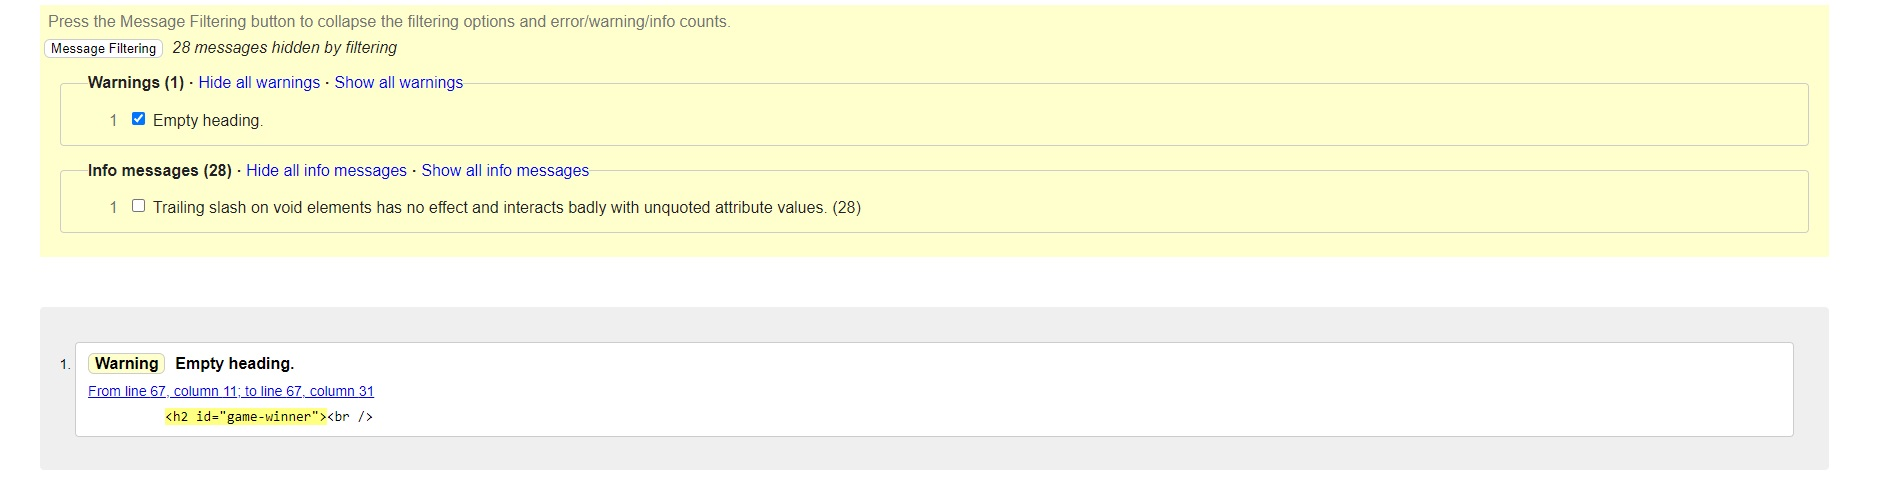
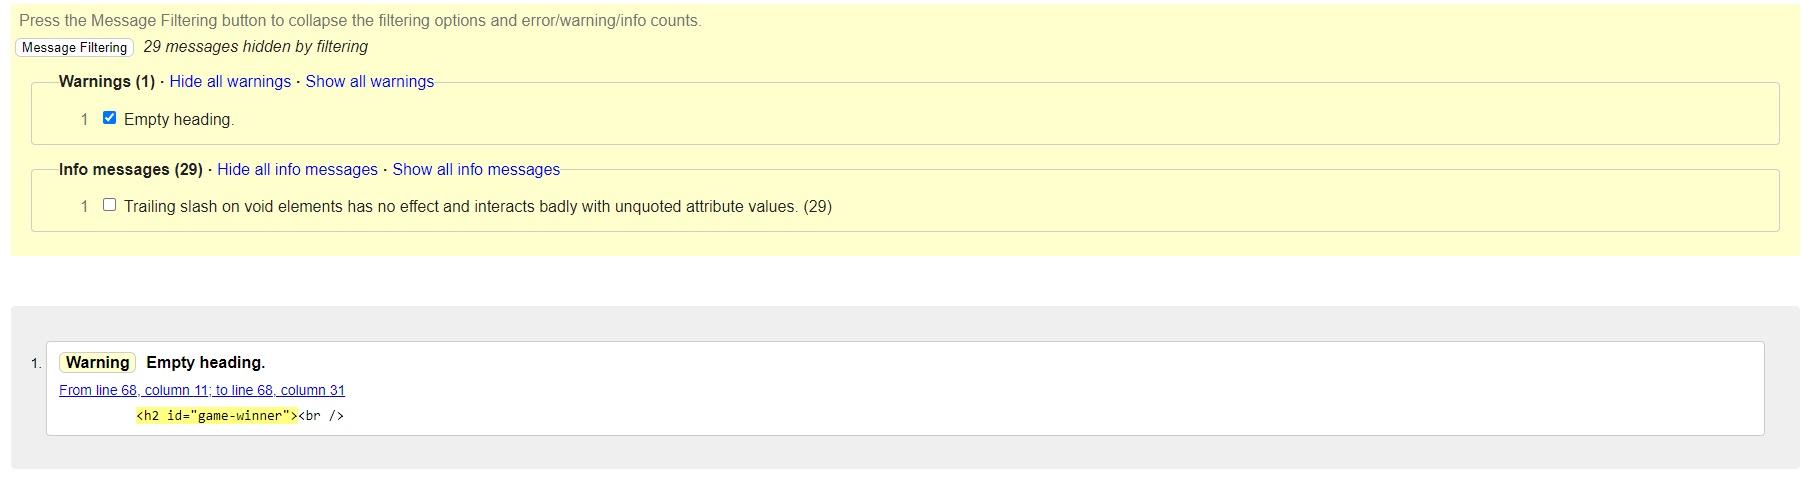
Update README and fix language

Changed region(s): [[0.0, 0.0, 0.4615, 0.5553], [0.0308, 0.7015, 0.9538, 0.9353], [0.9538, 0.0, 1.0, 0.5553]]

diff --git a/README.md b/README.md
@@ -20,12 +20,12 @@ Users of this game will learn the rules of RPSLS, and is targeted towards adults
 
 ![Header](documentation/header.jpg)
 
-- **Player Customization**
+- **Colour Customization**
 
-  - Featured right below the header. The user is allowed to customize the colour of their 'player character' from a predetermined colour set in the form of a drop-down list.
-  - The chosen colour of the user will appear in their player-box, above their name and also change the box to the chosen colour.
-  - Upon user selection of their colour, the computer will also choose its own colour, and change the colour of its box to its chosen colour.
-  - The computer will never choose the same colour as the player currently uses. This is to prevent confusion and keeping an easy visual distinction between each player.
+  - Featured right below the header. The user is allowed to customize the colour of their 'player character/box' from a predetermined colour set in the form of a drop-down list. This gives the user freedom by having more control of how they want their game to look (being able to style their user's box).
+  - The chosen colour of the user will appear both as text in their user's box above the 'player' line, and also change the box to the chosen colour. This is to improve UX: would the user for example be colour blind, they still know their box is 'Grey'.
+  - Upon user selection of their colour, the computer will also choose its own colour in similar fashion, and change the colour of its box to its chosen colour. This makes the game feel more 'alive and responsive' in that the computer also picks its colour and this adds an element of unpredictability (what colour will the user be facing?).
+  - The computer will never choose the same colour as the user currently uses. This is to prevent confusion and keeping an easy visual distinction between each player.
   - The customized colour choices are locally stored in the browser. Keeping the user's and computer's preferred colour if the page is refreshed or if the user close it and would decide to come back.
 
 ![Colour Customization](documentation/colour-customization.jpg)
@@ -33,7 +33,7 @@ Users of this game will learn the rules of RPSLS, and is targeted towards adults
 - **Game Options**
 
   - The user is presented with 5 clickable options in the game: Rock, Paper, Scissors, Lizard or Spock. Each of these clickable buttons contain a text presenting their choice and also contain a corresponding icon for better style and easier visualisation of each choice.
-  - When a button is clicked. The buttons will be locked until the computer has made its own move against the player. This makes it more user friendly to the player as it will prevent clicking two buttons or more in succession by mistake.
+  - When a button is clicked. The buttons will be locked until the computer has made its own move against the player. This makes it more user friendly to the player as it will also prevent clicking two buttons or more in rapid succession by mistake.
 
 ![Game Options](documentation/game-options.jpg)
 
@@ -43,9 +43,9 @@ Users of this game will learn the rules of RPSLS, and is targeted towards adults
   - The user's box on the left side will change image when the user clicks on one of the game buttons. It will change to an appropriate picture presenting the player's choice.
   - The computer's image will turn blank with a delay to portray a more human behaviour. Conveying a feeling that it is 'thinking about its next move'.
   - The computer's JavaScript coding will make a completely random choice between Rock, Paper, Scissors, Lizard or Spock. It will change its image to its choice and then the game will decide who the winner is of the round.
-  - When the round's winner is decided (or if it's a tie) the round will increase by 1, and if there is a winner they will be awarded 1 point more to their score.
+  - When the round's winner is decided (or if it's a tie) the round will increase by 1, and if there is a winner they will be awarded 1 point more to their score (with a maximum possible score of 5).
   - At the end of round 5, a description of the game's result will be displayed between the game buttons and game profiles: revealing the winner of the game (or if it's a tie).
-  - After round 5, the game will immediately restart if the player clicks on any game button. The game will also immediately begin through round 1, sending the player and computer straight into the game and deciding who the winner is of round 1.
+  - After round 5, the game will immediately restart if the player clicks on any game button. The game will also immediately begin through round 1, sending the player and computer straight into the game and deciding who the winner is of round 1. This is to make the game extra simple, avoiding unnecessary extra functions. It's just play the game and see the results since the user will be here to learn the rules of RPSLS so that they later can teach and play the game with others.
 
 ![Game Results Start](documentation/game-results-start.jpg)
 ![Game Results](documentation/game-results.jpg)
@@ -124,14 +124,14 @@ Users of this game will learn the rules of RPSLS, and is targeted towards adults
 
   - The presented colour names in the game are not the actual semantic colours in the game.
     - "Red" for example is actually "lightcoral" and "Yellow" is actually "lightgoldenrodyellow".
-    - **Reasons**: Better UX. These colours are lighter in nature, making the texts and images easier to read visualize. The actual names of the colours are somewhat unfriendly, so they were changed to more appropriate names when presented for the user.
+    - **Reasons**: Better UX. These colours are lighter in nature, making the texts and images with these backgrounds easier to read visualize. The actual names of the colours are somewhat unfriendly, so they were changed to more appropriate names when presented for the user.
 
   - Footer has inverted colours. Its background is black while the text is white.
     - **Reasons**: Better UX. To make the rules clearly separated from the rest of the document.
 
 - **Style**
 
-  - All 5 options that are playable in the game: all 5 are represented by both literal text and an illustration or icon.
+  - All 5 options that are playable in the game are represented by both literal text and an illustration or icon.
   - **Reasons**: Consistency. Clearly associating what (image)/(hand gesture) are associated with what literal choice. Making the game easier to read and learn.
 
 ## Testing
@@ -145,16 +145,16 @@ Users of this game will learn the rules of RPSLS, and is targeted towards adults
 - HTML
   - No errors were found but 1 warning was returned on the html page when passing through the html validator: <https://validator.w3.org/>
     - Empty heading warning on line 67.
-    - **Reasons**: JavaScript will add text into this header of the game's result. It begins as empty, and when the game restarts it turns back into this same state.
-  - Info messages are coming from an automatic formating in the index.html upon saving changes while using the Codeanywhere IDE and the Code Institute template. It is not the programmer's intention to include these.
-    - **Reasons**: Current lack of understanding of how to turn off or fix this type of formatting without manually fixing '28 typos' every time a change is made to the index.html.
+    - **Reasons**: JavaScript will add text into this header about the game's result. It begins as empty, and when the game restarts it turns back into this same empty state.
+  - Info messages are coming from an automatic formatting in the index.html upon saving changes while using the Codeanywhere IDE and the Code Institute template. It is not the programmer's intention to include these.
+    - **Reasons**: Current lack of understanding of how to turn off or fix this type of formatting without manually fixing '29 typos' every time a change is made to the index.html.
 
 - CSS
   - No errors were found when passing through the css validator: <https://jigsaw.w3.org/css-validator/>
 
 - JavaScript
-  - No errors were found but 1 warning was returned when passing through the jshint validator <https://jshint.com/>
-    - Function declared within loop referencing outer scoped variable.
+  - No errors were found but 1 warning was returned when passing through the JSHint validator <https://jshint.com/>
+    - Function declared within loop referencing outer scoped variable may lead to confusing semantics.
     - **Reasons**: Current lack of knowledge of how to circumvent this type of warning.
 
 - HTML validator results for index.html, about.html, contact.html and confirmation.html
